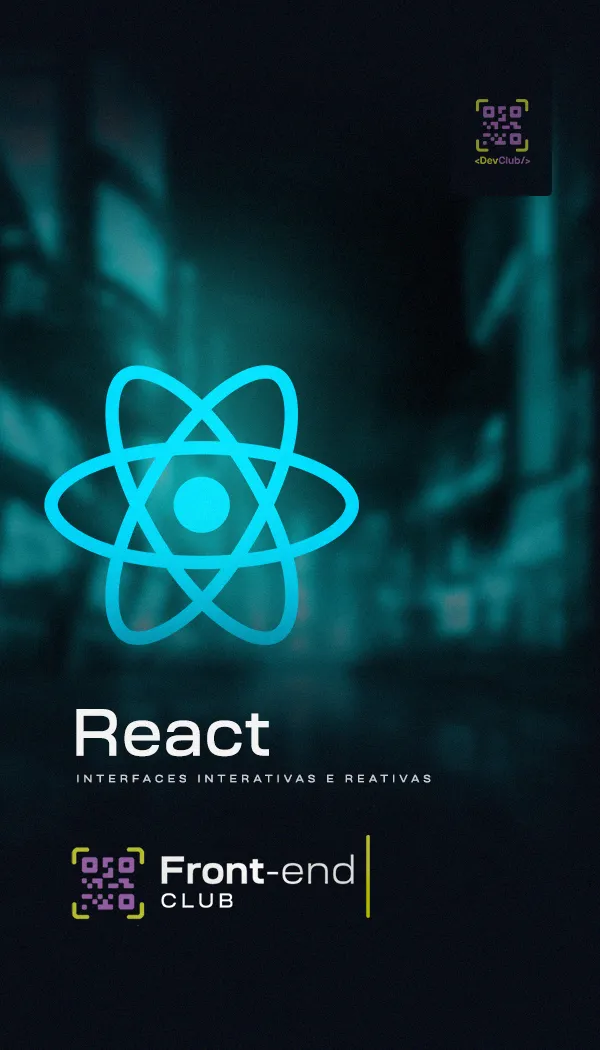
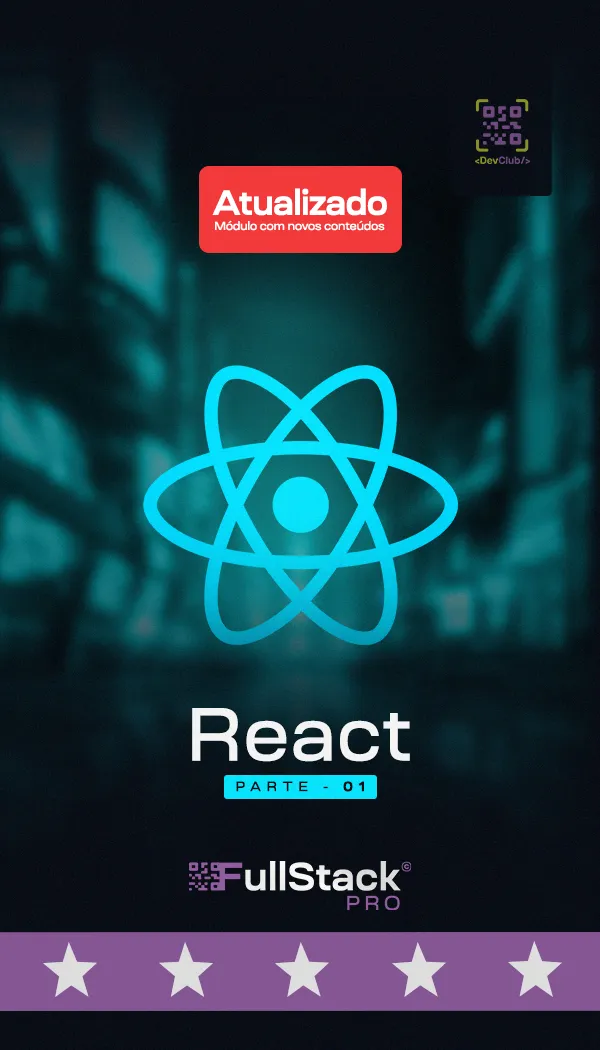
commit

diff --git a/index.html b/index.html
@@ -18,10 +18,20 @@
 <body>
     <div id="content" style="display: none">
 
-        <div class="cover"> <img class="cover" src="./assets/images/bannerlogofullstack.png" alt="">
+        <div class="cover"> <img class="cover" src="./assets/images/mainbanner.png" alt="">
         </div>
         <div class="content">
             <h1>Meus Cadernos DevClub</h1>
+            <!-- Preparando -->
+            <div class="title">
+                <button class="toggle-button">Mostrar</button>
+                <p class="title-p">Preparando o Ambiente</p>
+            </div>
+            <div class="toggle-content" style="display:none">
+                <p> HTML <a href="https://aulas.devclub.com.br/m/courses?showcase=1">Link para a Aula</a></p>
+                <a href="./html.html"><img class="img img-vertical" src="./assets/images/preparando-ambiente.webp"
+                        alt=""></a>
+            </div>
             <!-- HTML -->
             <div class="title">
                 <button class="toggle-button">Mostrar</button>
@@ -57,7 +67,8 @@
             </div>
             <div class="toggle-content" style="display:none">
                 <p> Git <a href="https://aulas.devclub.com.br/m/courses?showcase=1">Link para a Aula </a></p>
-                <a href="./javascript.html"><img class="img img-vertical" src="./assets/images/gitgithub.webp" alt=""></a>
+                <a href="./javascript.html"><img class="img img-vertical" src="./assets/images/gitgithub.webp"
+                        alt=""></a>
             </div>
             <!-- React -->
             <div class="title">
@@ -67,6 +78,35 @@
             <div class="toggle-content" style="display:none">
                 <p> React <a href="https://aulas.devclub.com.br/m/courses?showcase=1">Link para a Aula </a></p>
                 <a href="./javascript.html"><img class="img img-vertical" src="./assets/images/react.webp" alt=""></a>
+            </div>
+            <!-- React Native -->
+            <div class="title">
+                <button class="toggle-button">Mostrar</button>
+                <p class="title-p">React Native</p>
+            </div>
+            <div class="toggle-content" style="display:none">
+                <p> React <a href="https://aulas.devclub.com.br/m/courses?showcase=1">Link para a Aula </a></p>
+                <a href="./javascript.html"><img class="img img-vertical" src="./assets/images/react-native.webp"
+                        alt=""></a>
+            </div>
+            <!-- Node JS -->
+            <div class="title">
+                <button class="toggle-button">Mostrar</button>
+                <p class="title-p">Node JS</p>
+            </div>
+            <div class="toggle-content" style="display:none">
+                <p> React <a href="https://aulas.devclub.com.br/m/courses?showcase=1">Link para a Aula </a></p>
+                <a href="./javascript.html"><img class="img img-vertical" src="./assets/images/nodejs.webp" alt=""></a>
+            </div>
+            <!-- Typescript -->
+            <div class="title">
+                <button class="toggle-button">Mostrar</button>
+                <p class="title-p">Typescript</p>
+            </div>
+            <div class="toggle-content" style="display:none">
+                <p> React <a href="https://aulas.devclub.com.br/m/courses?showcase=1">Link para a Aula </a></p>
+                <a href="./javascript.html"><img class="img img-vertical" src="./assets/images/typescriprt.webp"
+                        alt=""></a>
             </div>
 
         </div>
